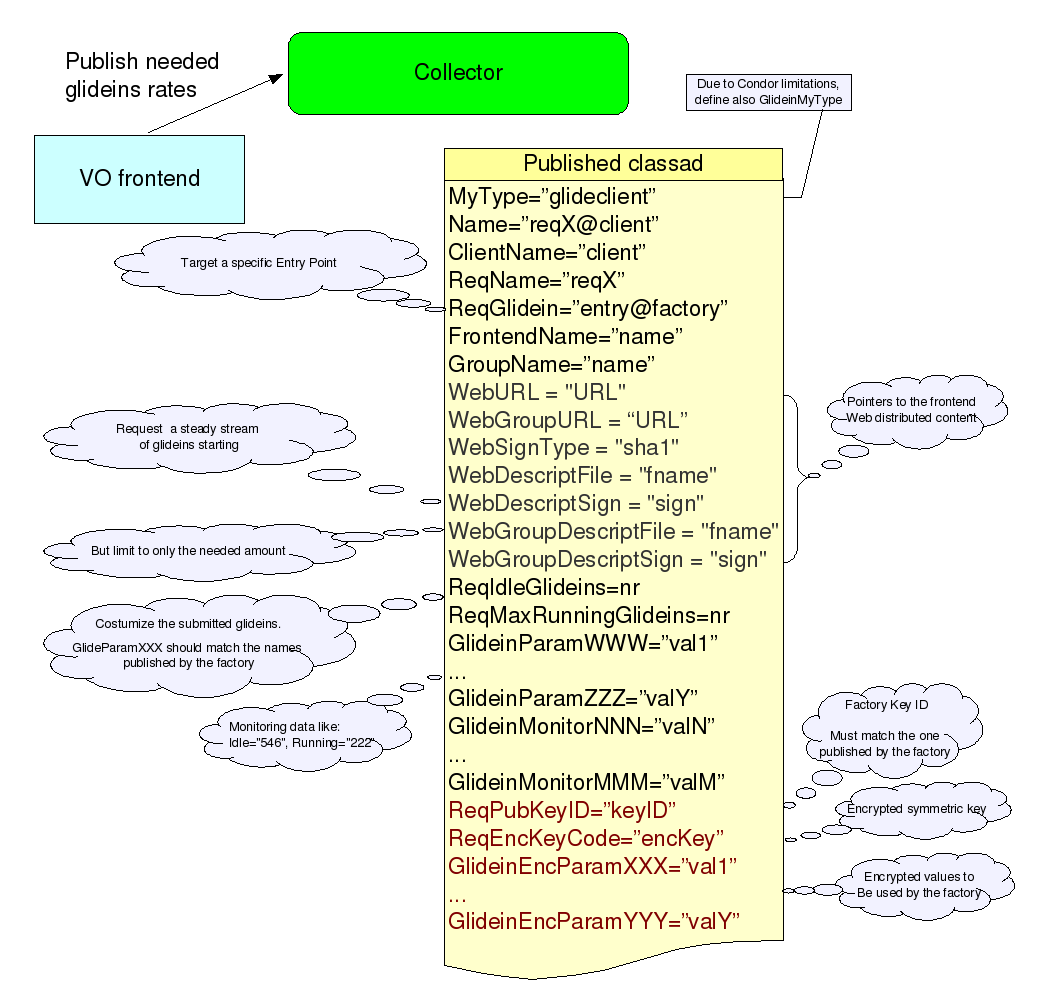
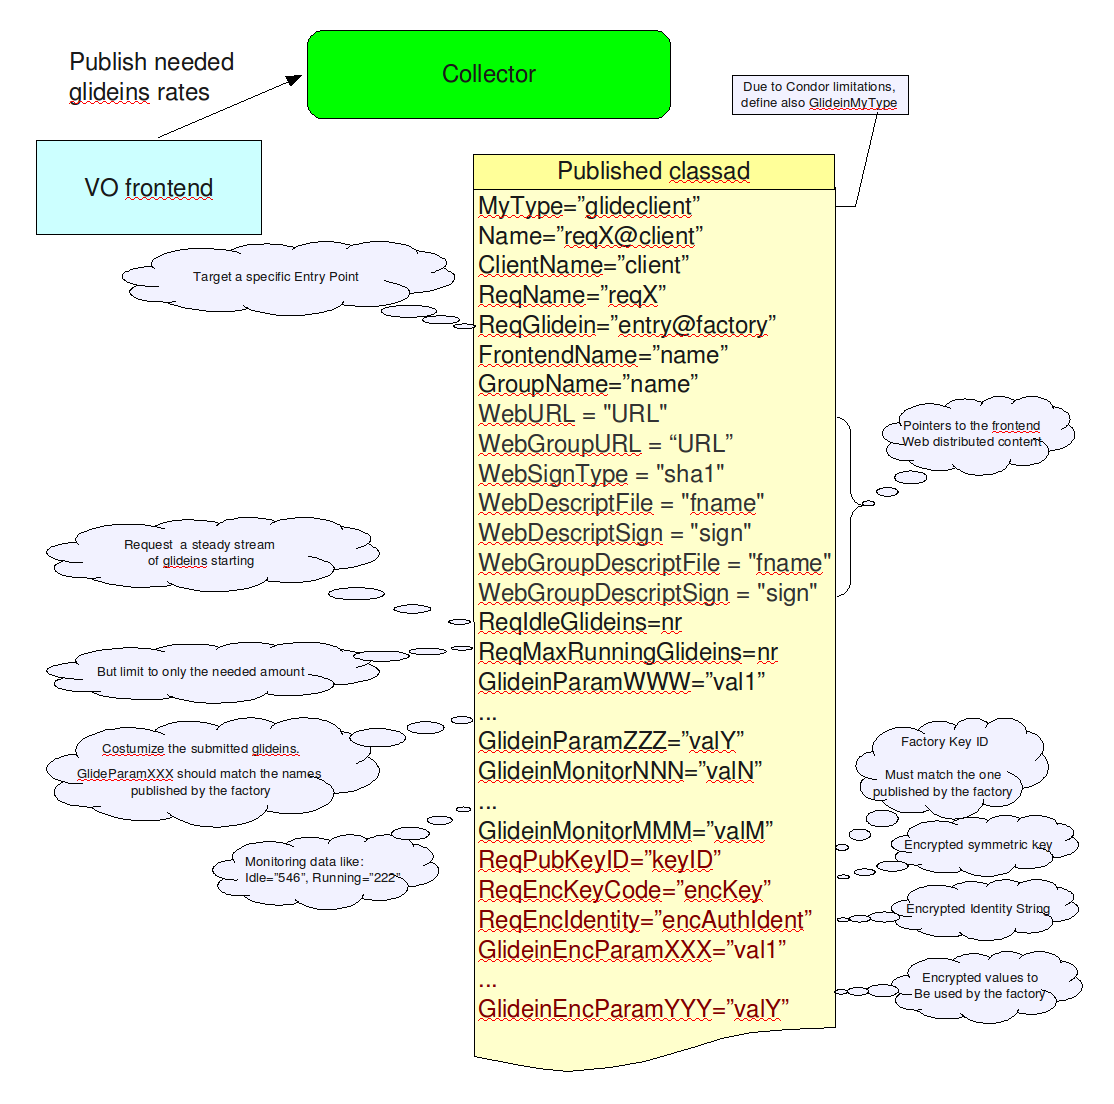
Add the encrypted AuthenticatedIdentity to the frontend classad to prevent replay attacks on the encrypted parameters. This changes both the frontend config and the frontend classad; break backward compatibility. Now requires at least Condor 7.3.1 to support the proxy passing (due to encryption). Me

diff --git a/doc/manual/index.html b/doc/manual/index.html
@@ -109,11 +109,14 @@ pieces publish.</P>
 class-ad contains 
 </P>
 <UL>
-	<LI>the name of the glidein (and&nbsp;the factory),&nbsp; 
-	<LI>the attributes that describe the glidein, and&nbsp; 
+	<LI>the name of the glidein (and the factory),
+	<LI>the attributes that describe the glidein,
 	<LI>the list of parameters that the glidein accepts. All the
-	parameters&nbsp;have also default values associated with them, in
-	case a frontend does not redefine them.&nbsp; 
+	parameters have also default values associated with them, in
+	case a frontend does not redefine them, and
+	<LI>the (optional) public key algorithm, ID and value, together with the
+	    supported symmetric algorithms, that the frontend can use
+            to push back encrypted values.
 	<LI>Plus a list of monitoring values (like how many glideins are
 	already in the queues, etc.) 
 </UL>
@@ -134,18 +137,27 @@ attributes. For each fitting glidein, a frontend class-ad will be
 published. Such a class-ad will contain 
 </P>
 <UL>
-	<LI>the name of the frontend and a request ID,&nbsp; 
-	<LI>the desired glidein name,&nbsp; 
-	<LI>the rate of glidein submissions, and 
-	<LI>the glidein parameters. 
+	<LI>the name of the frontend and a request ID,
+	<LI>the desired glidein name,
+	<LI>the (optional) URL and signatures for the frontend specific scripts and data,
+	<LI>the desired rate and limits of glidein submissions,
+	<LI>the glidein parameters (in clear),and
+	<LI>the (optional) factory public key ID used, together with
+	<UL>
+	  <LI>the symmetric encryption algorithm and key,
+	  <LI>the encrypted identity, and
+	  <LI>the encrypted parameters.
+	</UL>
 	<LI>Plus a list of monitoring values (like how many jobs are
 	currently running, etc.) 
 </UL>
+<P>If encryption is used, the the encrypted identity must must match the AuthenticatedIdentity attribute inserted by the condor collector <b>(needs Condor version 7.3.1 or better)</b></P>
+
 <P>Have a look at the picture below for a generic description.<BR><IMG SRC="frontend_publish.png" NAME="graphics5" ALIGN=BOTTOM BORDER=0></P>
 <P>The most important parameters that the VO fronted sends to the factory are:</P>
 <UL>
       <LI>The address of the <A HREF="#pool_glidein">VO pool collector(s)</A> - <B>GLIDEIN_Collector</B>.</LI>
-      <LI>The pilot proxies. These are always encrypted. Three types of information are sent:
+      <LI>The pilot proxies. If present, these are always encrypted. Three types of information are sent:
 	<UL>
 	  <LI>Number of proxies sent - <B>nr_x509_proxies</B></LI>
 	  <LI>The proxy identifiers; given an identifier, the proxy DN must not change between updates. - <B>x509_proxy_0_identifier</B> ... <B>x509_proxy_N_identifier</B></LI>

diff --git a/factory/glideFactoryInterface.py b/factory/glideFactoryInterface.py
@@ -13,12 +13,15 @@ import os
 import time
 import string
 
-
 ############################################################
 #
 # Configuration
 #
 ############################################################
+
+class FakeLog:
+    def write(self,str):
+        pass
 
 class FactoryConfig:
     def __init__(self):
@@ -50,6 +53,9 @@ class FactoryConfig:
         self.factory_signtype_id = "SupportedSignTypes"
         self.client_web_signtype_suffix = "SignType"
 
+        # warning log files
+        # default is FakeLog, any other value must implement the write(str) method
+        self.warning_log = FakeLog()
 
 
 # global configuration of the module
@@ -86,7 +92,7 @@ def findWork(factory_name,glidein_name,entry_name,
         if pub_key_obj!=None:
             # get only classads that have my key or no key at all
             # any other key will not work
-            status_constraint+=' && (((ReqPubKeyID=?="%s") && (ReqEncKeyCode=!=Undefined)) || (ReqPubKeyID=?=Undefined))'%pub_key_obj.get_pub_key_id()
+            status_constraint+=' && (((ReqPubKeyID=?="%s") && (ReqEncKeyCode=!=Undefined) && (ReqEncIdentity=!=Undefined)) || (ReqPubKeyID=?=Undefined))'%pub_key_obj.get_pub_key_id()
             if not ('factory' in allowed_proxy_source):
                 # the proxy is required, so look for it 
                 status_constraint+=' && ((GlideinEncParamx509_proxy =!= UNDEFINED) || (GlideinEncParamx509_proxy_0 =!= UNDEFINED))'
@@ -101,7 +107,7 @@ def findWork(factory_name,glidein_name,entry_name,
 
     data=status.fetchStored()
 
-    reserved_names=("ReqName","ReqGlidein","ClientName","FrontendName","GroupName","ReqPubKeyID","ReqEncKeyCode")
+    reserved_names=("ReqName","ReqGlidein","ClientName","FrontendName","GroupName","ReqPubKeyID","ReqEncKeyCode","ReqEncIdentity","AuthenticatedIdentity")
 
     out={}
 
@@ -133,6 +139,18 @@ def findWork(factory_name,glidein_name,entry_name,
         else:
             sym_key_obj=None # have no key, will not decrypt
 
+        if sym_key_obj!=None:
+            try:
+                enc_identity=sym_key_obj.decrypt_hex(kel['ReqEncIdentity'])
+            except:
+                factoryConfig.warning_log.write("Client %s provided invalid ReqEncIdentity, could not decode. Skipping for security reasons."%k)
+                continue # corrupted classad
+            if enc_identity!=kel['AuthenticatedIdentity']:
+                factoryConfig.warning_log.write("Client %s provided invalid ReqEncIdentity(%s!=%s). Skipping for security reasons."%(k,enc_identity,kel['AuthenticatedIdentity']))
+                continue # uh oh... either the client is misconfigured, or someone is trying to cheat
+            
+
+        invalid_classad=False
         for (key,prefix) in (("params_decrypted",factoryConfig.encrypted_param_prefix),):
             plen=len(prefix)
             for attr in kel.keys():
@@ -144,10 +162,15 @@ def findWork(factory_name,glidein_name,entry_name,
                         try:
                             el[key][attr[plen:]]=sym_key_obj.decrypt_hex(kel[attr])
                         except:
-                            pass # oh well, I don't understand it
+                            invalid_classad=True
+                            break # I don't understand it -> invalid
+        if invalid_classad:
+            factoryConfig.warning_log.write("At least one of the encrypted parameters for client %s cannot be decoded. Skipping for security reasons."%k)
+            continue # need to go this way as I may have problems in an inner loop
+
 
         for attr in kel.keys():
-            if attr in ("ClientName","FrontendName","GroupName","ReqName","LastHeardFrom","ReqPubKeyID"):
+            if attr in ("ClientName","FrontendName","GroupName","ReqName","LastHeardFrom","ReqPubKeyID","AuthenticatedIdentity"):
                 el["internals"][attr]=kel[attr]
         
         out[k]=el

diff --git a/frontend/glideinFrontendElement.py b/frontend/glideinFrontendElement.py
@@ -46,6 +46,8 @@ def iterate_one(client_name,elementDescript,paramsDescript,signatureDescript,x50
     frontend_name=elementDescript.frontend_data['FrontendName']
     group_name=elementDescript.element_data['GroupName']
 
+    classad_identity="%s"%elementDescript.frontend_data['ClassAdIdentity']
+
     web_url=elementDescript.frontend_data['WebURL']
 
     # query condor
@@ -251,6 +253,7 @@ def iterate_one(client_name,elementDescript,paramsDescript,signatureDescript,x50
                                                      signatureDescript.frontend_descript_fname, signatureDescript.group_descript_fname,
                                                      signatureDescript.signature_type, signatureDescript.frontend_descript_signature, signatureDescript.group_descript_signature,
                                                      glidein_min_idle,glidein_max_run,glidein_params,glidein_monitors,
+                                                     classad_identity,
                                                      glidein_el['attrs']['PubKeyID'],glidein_el['attrs']['PubKeyObj'],
                                                      glidein_symKey=None, # should reuse it, but none will work for now
                                                      glidein_params_to_encrypt=enc_data)
@@ -265,6 +268,9 @@ def iterate_one(client_name,elementDescript,paramsDescript,signatureDescript,x50
           glideinFrontendLib.log_files.logDebug("Advertize %s failed: %s"%(glideid_str,e))
         except:
           glideinFrontendLib.log_files.logWarning("Advertize %s failed: Reason unknown"%glideid_str)
+          tb = traceback.format_exception(sys.exc_info()[0],sys.exc_info()[1],
+                                          sys.exc_info()[2])
+          glideinFrontendLib.log_files.logDebug("Advertize %s failed: %s"%(glideid_str,string.join(tb,'')))
 
     return
 
@@ -353,6 +359,9 @@ def main(parent_pid, work_dir, group_name):
         # no proxies, will try to use the factory one
         x509_proxy_plugin=None
 
+    # set the frontend proxy globally, so I don't need to worry about it later on
+    os.environ['X509_USER_PROXY']=elementDescript.frontend_data['ClassAdProxy']
+
     # create lock file
     pid_obj=glideinFrontendPidLib.ElementPidSupport(work_dir,group_name)
 
@@ -383,8 +392,6 @@ def termsignal(signr,frame):
 
 if __name__ == '__main__':
     # check that the GSI environment is properly set
-    if not os.environ.has_key('X509_USER_PROXY'):
-        raise RuntimeError, "Need X509_USER_PROXY to work!"
     if not os.environ.has_key('X509_CERT_DIR'):
         raise RuntimeError, "Need X509_CERT_DIR to work!"
 

diff --git a/frontend/glideinFrontendInterface.py b/frontend/glideinFrontendInterface.py
@@ -190,6 +190,7 @@ def advertizeWork(factory_pool,
                   signtype, main_sign, group_sign,
                   min_nr_glideins,max_run_glideins,
                   glidein_params={},glidein_monitors={},
+                  classad_identity=None, # needed only if sending over encrypted info
                   factory_pub_key_id=None,factory_pub_key=None, #pub_key needs pub_key_id
                   glidein_symKey=None, # if a symkey is not provided, or is not initialized, generate one
                   glidein_params_to_encrypt=None):  #params_to_encrypt need pub_key
@@ -201,9 +202,11 @@ def advertizeWork(factory_pool,
     fd=file(tmpnam,"w")
     try:
         try:
+            classad_name="%s@%s"%(request_name,client_name)
+            
             fd.write('MyType = "%s"\n'%frontendConfig.client_id)
             fd.write('GlideinMyType = "%s"\n'%frontendConfig.client_id)
-            fd.write('Name = "%s@%s"\n'%(request_name,client_name))
+            fd.write('Name = "%s"\n'%classad_name)
             fd.write('ClientName = "%s"\n'%client_name)
             fd.write('FrontendName = "%s"\n'%frontend_name)
             fd.write('GroupName = "%s"\n'%group_name)
@@ -227,11 +230,17 @@ def advertizeWork(factory_pool,
                 glidein_symKey_str=glidein_symKey.get_code()
                 
                 fd.write('ReqPubKeyID = "%s"\n'%factory_pub_key_id)
-                if factory_pub_key!=None:
-                    fd.write('ReqEncKeyCode = "%s"\n'%factory_pub_key.encrypt_hex(glidein_symKey_str))
-                    if encrypted_params!=None:
-                        for attr in glidein_params_to_encrypt.keys():
-                            encrypted_params[attr]=glidein_symKey.encrypt_hex(glidein_params_to_encrypt["%s"%attr])
+
+                fd.write('ReqEncKeyCode = "%s"\n'%factory_pub_key.encrypt_hex(glidein_symKey_str))
+
+                # this attribute will be checked against the AuthenticatedIdentity
+                # this will prevent replay attacks, as only who knows the symkey can change this field
+                # no other changes needed, as Condor provides integrity of the whole classAd
+                fd.write('ReqEncIdentity = "%s"\n'%glidein_symKey.encrypt_hex(classad_identity))
+                
+                if encrypted_params!=None:
+                    for attr in glidein_params_to_encrypt.keys():
+                        encrypted_params[attr]=glidein_symKey.encrypt_hex(glidein_params_to_encrypt["%s"%attr])
                         
             fd.write('ReqIdleGlideins = %i\n'%min_nr_glideins)
             fd.write('ReqMaxRunningGlideins = %i\n'%max_run_glideins)

diff --git a/creation/lib/cvWParamDict.py b/creation/lib/cvWParamDict.py
@@ -358,6 +358,18 @@ def populate_frontend_descript(work_dir,
 
         frontend_dict.add('FrontendName',params.frontend_name)
         frontend_dict.add('WebURL',params.web_url)
+
+        if params.security.classad_proxy==None:
+            raise RuntimeError, "Missing security.classad_proxy"
+        params.subparams.data['security']['classad_proxy']=os.path.abspath(params.security.classad_proxy)
+        if not os.path.isfile(params.security.classad_proxy):
+            raise RuntimeError, "security.classad_proxy(%s) is not a file"%params.security.classad_proxy
+        frontend_dict.add('ClassAdProxy',params.security.classad_proxy)
+        
+        if params.security.classad_identity==None:
+            raise RuntimeError, "Missing security.classad_identity"
+        frontend_dict.add('ClassAdIdentity',params.security.classad_identity)
+        
         frontend_dict.add('SymKeyType',params.security.sym_key)
 
         active_sub_list[:] # erase all

diff --git a/creation/lib/cvWParams.py b/creation/lib/cvWParams.py
@@ -126,6 +126,8 @@ class VOFrontendParams(cWParams.CommonParams):
         self.defaults["monitor"]=self.monitor_defaults
         
         self.defaults["security"]=copy.deepcopy(security_defaults)
+        self.defaults["security"]["classad_proxy"]=(None,"fname","File name of the proxy used for talking to the WMS collector",None)
+        self.defaults["security"]["classad_identity"]=(None,"authenticated_identity","What is the AuthenticatedIdentity of the proxy at the WMS collector",None)
         self.defaults["security"]["sym_key"]=("aes_256_cbc","sym_algo","Type of symetric key system used for secure message passing",None)
         
         self.defaults["match"]=copy.deepcopy(match_defaults)

diff --git a/factory/glideFactoryEntry.py b/factory/glideFactoryEntry.py
@@ -372,6 +372,7 @@ def main(parent_pid,sleep_time,advertize_rate,startup_dir,entry_name):
     warning_log=logSupport.DayLogFile(os.path.join(startup_dir,"entry_%s/log/factory_err"%entry_name))
     glideFactoryLib.factoryConfig.activity_log=activity_log
     glideFactoryLib.factoryConfig.warning_log=warning_log
+    glideFactoryInterface.factoryConfig.warning_log=warning_log
     
     glideFactoryMonitoring.monitoringConfig.monitor_dir=os.path.join(startup_dir,"monitor/entry_%s"%entry_name)
     glideFactoryMonitoring.monitoringConfig.log_dir=os.path.join(startup_dir,"entry_%s/log"%entry_name)

diff --git a/frontend/glideinFrontend.py b/frontend/glideinFrontend.py
@@ -159,8 +159,6 @@ if __name__ == '__main__':
     signal.signal(signal.SIGQUIT,termsignal)
 
     # check that the GSI environment is properly set
-    if not os.environ.has_key('X509_USER_PROXY'):
-        raise RuntimeError, "Need X509_USER_PROXY to work!"
     if not os.environ.has_key('X509_CERT_DIR'):
         raise RuntimeError, "Need X509_CERT_DIR to work!"
 
